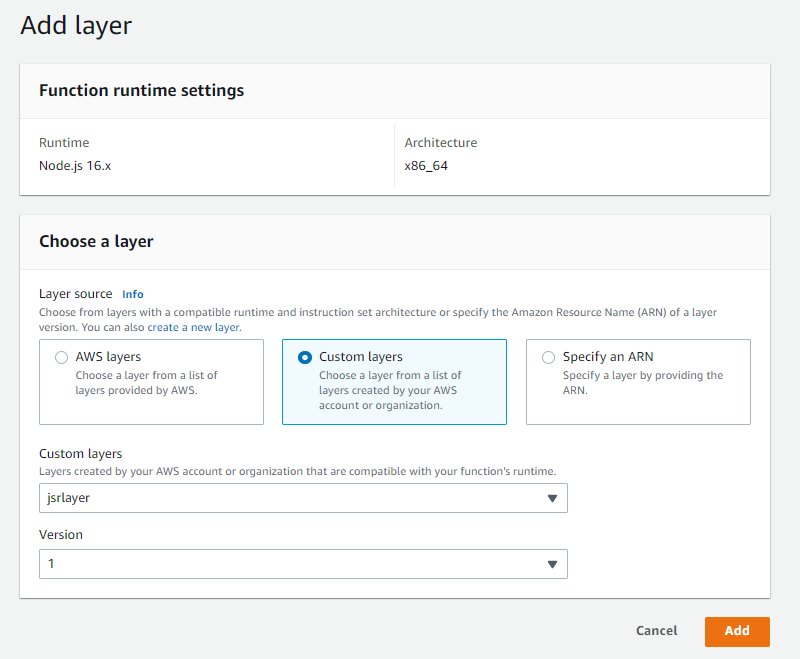
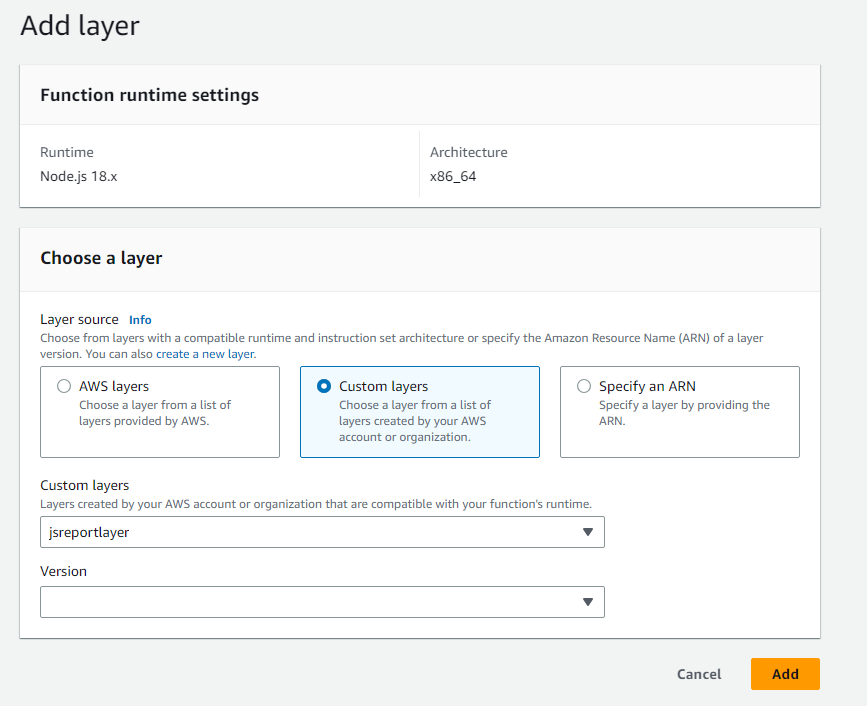
update aws lambda tutotorial to node 18

diff --git a/docs/aws-lambda-serverless.md b/docs/aws-lambda-serverless.md
@@ -33,13 +33,13 @@ Call it using
 node createLambdaLayer.js
 ```
 Then log in to AWS console and upload the prepared `layer.zip` to a s3 bucket.
-Then create AWS lambda layer referencing the uploaded zip with nodejs 16.x runtime.
+Then create AWS lambda layer referencing the uploaded zip with nodejs 18.x runtime.
 
 ![lambda layer](/learn/static-resources/aws-lambda-create-layer.png)
 
 ### Create lambda function
 
-Then create lambda function with node 16.x runtime.
+Then create lambda function with node 18.x runtime.
 
 ![lambda function](/learn/static-resources/aws-lambda-create-function.png)
 
